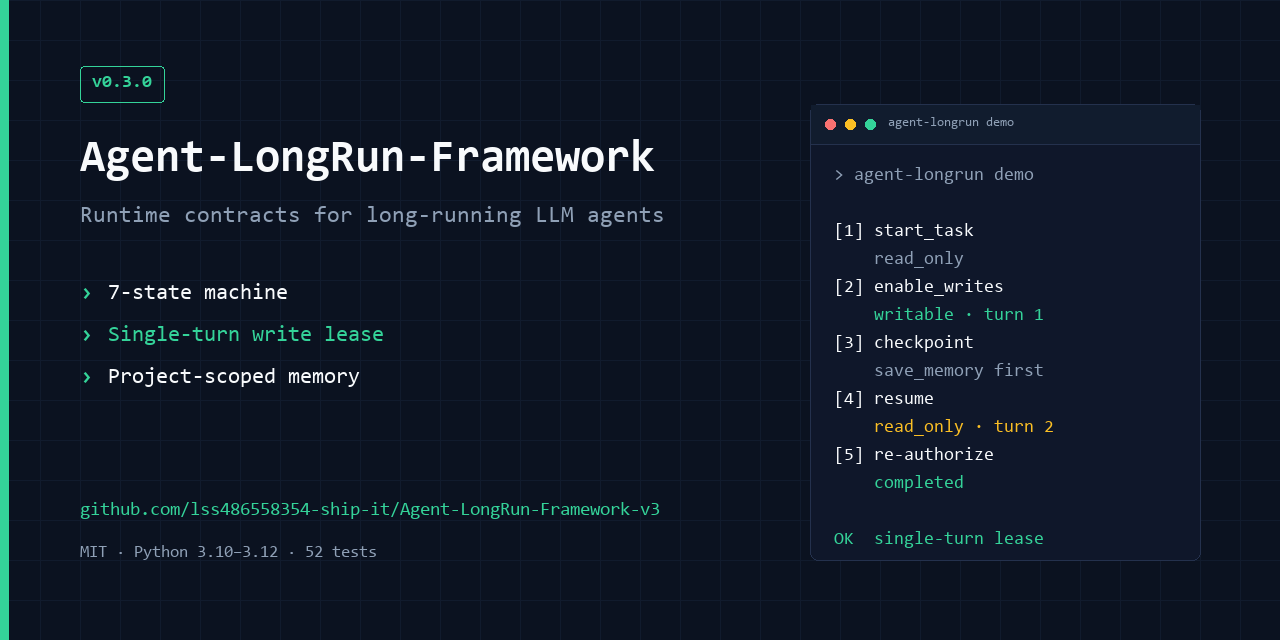
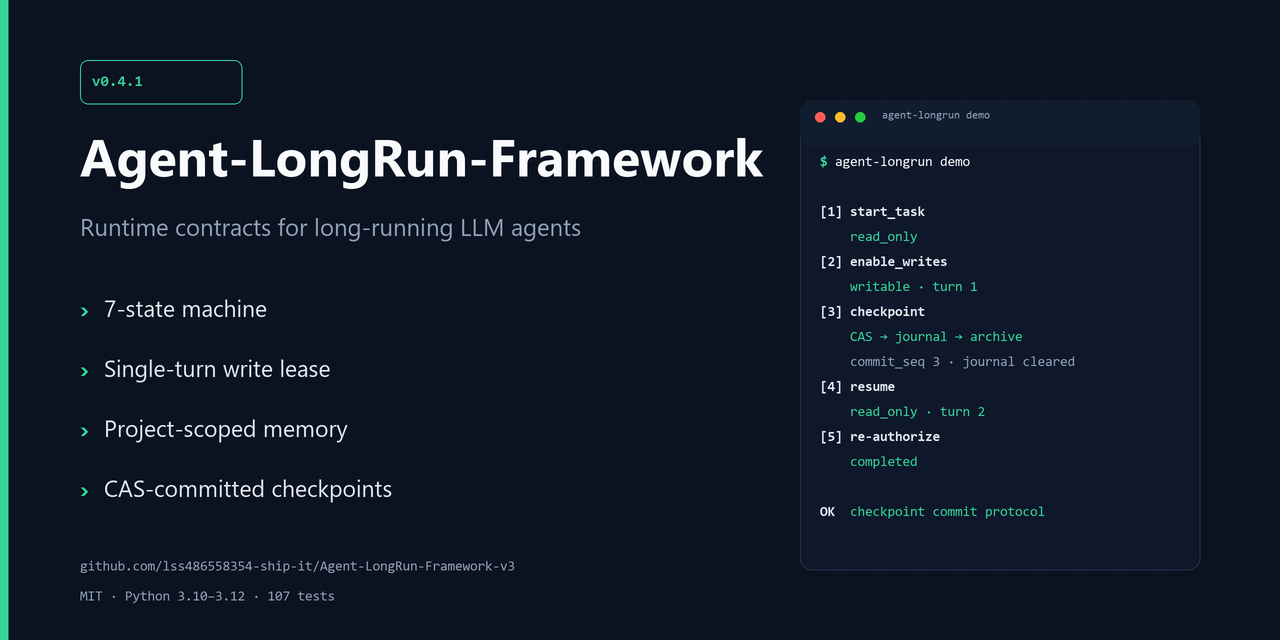
docs: refresh v4 demo assets and README hero
- rebuild docs/demo.gif around the v4 checkpoint protocol
- rebuild docs/social-preview.png for v0.4.1
- lead the English README with the v4 commit protocol
- print commit_seq / checkpoint_key / pending / journal in the demo

diff --git a/cli.py b/cli.py
@@ -3,8 +3,9 @@
     agent-longrun demo
 
 The demo is intentionally self-contained: it creates a temporary project,
-runs a checkpoint, opens a new agent to resume it, and shows that the
-single-turn write lease does not survive the resume.
+runs a v4 checkpoint (state CAS -> journal -> archive), opens a new agent to
+resume it, and shows that the single-turn write lease does not survive the
+resume.
 """
 
 from __future__ import annotations
@@ -58,6 +59,12 @@ def run_demo() -> int:
         decisions=["read-only first"],
     )
     print(checkpoint.text)
+    print(
+        f"commit: seq={checkpoint.state.commit_seq} "
+        f"key={checkpoint.state.checkpoint_key[:8]} "
+        f"pending={checkpoint.state.archive_pending} "
+        f"journal={'present' if agent.store.journal_path.exists() else 'cleared'}"
+    )
 
     print("\n[4] new agent: resume")
     resumed = LongRunAgent(memory, root=home)

diff --git a/README.md b/README.md
@@ -1,15 +1,16 @@
-# Agent-LongRun-Framework
+# Agent-LongRun-Framework v4
 
 English | [简体中文](README.zh-CN.md)
 
 [![Python 3.10+](https://img.shields.io/badge/python-3.10%2B-blue)](pyproject.toml)
-[![Tests](https://img.shields.io/badge/tests-106%20passed-brightgreen)](tests/)
+[![Tests](https://img.shields.io/badge/tests-107%20collected-brightgreen)](tests/)
 [![License: MIT](https://img.shields.io/badge/license-MIT-green)](LICENSE)
 [![MCP](https://img.shields.io/badge/MCP-stdio-6f42c1)](https://modelcontextprotocol.io)
 
 Runtime contracts for long-running LLM agents: a 7-state task machine, a
-**single-turn write lease**, and project-scoped memory — coupled so that
-execution and memory are each other's precondition.
+**single-turn write lease**, project-scoped memory, and a **CAS-committed
+checkpoint protocol** — coupled so that execution and memory are each other's
+precondition.
 
 > **Companion MCP server:** [`agent-memory-router-v2`](https://github.com/lss486558354-ship-it/agent-memory-router-v2)
 > — project-scoped SQLite memory plus raw data, used as the default memory backend.
@@ -26,7 +27,7 @@ execution and memory are each other's precondition.
 
 ![agent-longrun demo](docs/demo.gif)
 
-*`agent-longrun demo` — read-only → lease → checkpoint → resume → stale lease rejected → finish.*
+*`agent-longrun demo` — read-only → lease → checkpoint (state CAS → journal → archive) → resume → stale lease rejected → finish.*
 
 Not another agent framework. No LLM calls, no orchestration DSL. It is a thin
 layer that answers three questions an agent runtime keeps getting wrong:
@@ -50,37 +51,6 @@ start_task → search memory → work under the state machine
           → checkpoint: state CAS first, archive memory second, print last
           → resume / recover on another process or machine
 ```
-
-## The single-turn write lease (v3)
-
-v2 shipped `enable_writes()` as a persistent switch. That is the wrong default:
-the user approves **one** action, and the agent keeps writing files in every
-later turn.
-
-v3 makes write permission a lease bound to a conversation turn:
-
-- `TaskState.turn_index` tracks the current turn.
-- `enable_writes(reason)` binds `write_lease_turn` to the current turn.
-- `begin_turn()` / `end_turn()` / `checkpoint()` / `resume()` /
-  `recover_from_memory()` all revoke the lease.
-- `require_writable()` checks both `access_mode` and `write_lease_turn`; a stale
-  lease raises `WriteGateViolation` even if `access_mode` still says `writable`.
-- A legacy v2 state that was `writable` is downgraded to `read_only` on load.
-
-```python
-agent.enable_writes("plan approved")
-agent.require_writable("edit adapters/xometry.py")   # OK, turn 1
-
-agent.begin_turn("next user message")
-agent.require_writable("keep editing")               # raises WriteGateViolation
-
-agent.enable_writes("new plan approved")
-agent.require_writable("keep editing")               # OK, turn 2
-```
-
-The host is responsible for calling `begin_turn()` when a new user message
-arrives — the framework cannot see message boundaries by itself. `resume()`
-already includes one `begin_turn`; do not call it twice for the same message.
 
 ## Checkpoint commit protocol (v4)
 
@@ -118,6 +88,37 @@ Properties:
 
 Durability promise: **process crash**, not power loss. State/journal use unique
 temp files plus `os.replace`; fsync/SQLite `synchronous=FULL` are out of scope.
+
+## The single-turn write lease (v3)
+
+v2 shipped `enable_writes()` as a persistent switch. That is the wrong default:
+the user approves **one** action, and the agent keeps writing files in every
+later turn.
+
+v3 makes write permission a lease bound to a conversation turn:
+
+- `TaskState.turn_index` tracks the current turn.
+- `enable_writes(reason)` binds `write_lease_turn` to the current turn.
+- `begin_turn()` / `end_turn()` / `checkpoint()` / `resume()` /
+  `recover_from_memory()` all revoke the lease.
+- `require_writable()` checks both `access_mode` and `write_lease_turn`; a stale
+  lease raises `WriteGateViolation` even if `access_mode` still says `writable`.
+- A legacy v2 state that was `writable` is downgraded to `read_only` on load.
+
+```python
+agent.enable_writes("plan approved")
+agent.require_writable("edit adapters/xometry.py")   # OK, turn 1
+
+agent.begin_turn("next user message")
+agent.require_writable("keep editing")               # raises WriteGateViolation
+
+agent.enable_writes("new plan approved")
+agent.require_writable("keep editing")               # OK, turn 2
+```
+
+The host is responsible for calling `begin_turn()` when a new user message
+arrives — the framework cannot see message boundaries by itself. `resume()`
+already includes one `begin_turn`; do not call it twice for the same message.
 
 ## Quickstart
 

diff --git a/PROJECT_INDEX.md b/PROJECT_INDEX.md
@@ -1,6 +1,6 @@
 # PROJECT_INDEX
 
-> 最后更新：2026-11-18（v0.4.1 发布收尾：lint 与测试口径）
+> 最后更新：2026-11-19（v0.4 演示资产与 README 主视觉刷新）
 > 维护规则：每次代码修改后追加「修改历史」，并刷新此处。
 
 ## 1. 项目基本信息
@@ -311,6 +311,20 @@ env = PYTHONIOENCODING=utf-8, PYTHONUTF8=1
   `RELEASE_NOTES_v0.4.0.md`、`PROJECT_INDEX.md` 已同步
 - 新增 `RELEASE_NOTES_v0.4.1.md`；版本号 `0.4.1`
 - 备份：`.backups/20261118_v4.1/`；问题记录：`BUG_DESCRIPTION.md`
+
+### 2026-11-19 · v0.4 演示资产与 README 主视觉刷新
+
+- 重制 `docs/social-preview.png`：版本徽章从 v0.3.0 更新为 v0.4.1，
+  特性列表加入「CAS-committed checkpoints」，测试口径改为 107，终端卡片
+  展示 `state CAS → journal → archive` 与 `commit_seq 3 · journal cleared`
+- 重制 `docs/demo.gif`：标题栏与页脚更新为 v0.4.1，演示流程改为
+  `state CAS → journal → archive → pending cleared`，不再展示 v0.3 的
+  “save memory first”
+- `README.md` 标题改为 v4，v4 提交协议移到写租约之前，测试徽章改为
+  107 collected，demo 说明同步
+- `README.zh-CN.md` 补充 state 唯一提交点 / journal，演示说明同步
+- `cli.py` demo 在断点后输出 `commit_seq` / `checkpoint_key` /
+  `archive_pending` / journal 状态，便于直接观察 v4 提交结果
 
 ## 8. 技术债务
 

diff --git a/README.zh-CN.md b/README.zh-CN.md
@@ -4,7 +4,8 @@
 
 把「Agent 执行状态机」和「MCP 记忆路由」耦合成一条可中断、可恢复、可审计的长任务流水线。
 
-任务开始先查记忆 → 执行受状态机与单轮写租约约束 → 中断/阶段完成时先提交 state、再归档记忆、最后输出断点。
+任务开始先查记忆 → 执行受状态机与单轮写租约约束 → 中断/阶段完成时先提交 state
+（唯一提交点）、再写 journal 与归档记忆、最后输出断点。
 
 > **配套记忆路由器：** [`agent-memory-router-v2`](https://github.com/lss486558354-ship-it/agent-memory-router-v2)
 > —— 每个项目独立的 SQLite 记忆库 + 原文目录，本框架默认用它作为记忆后端。
@@ -32,7 +33,7 @@
 
 ![agent-longrun demo](docs/demo.gif)
 
-*`agent-longrun demo`：只读 → 授权 → 断点 → 恢复 → 租约失效 → 重新授权。*
+*`agent-longrun demo`：只读 → 授权 → 断点（state CAS → journal → 归档）→ 恢复 → 租约失效 → 重新授权。*
 
 ## 解决什么问题
 
